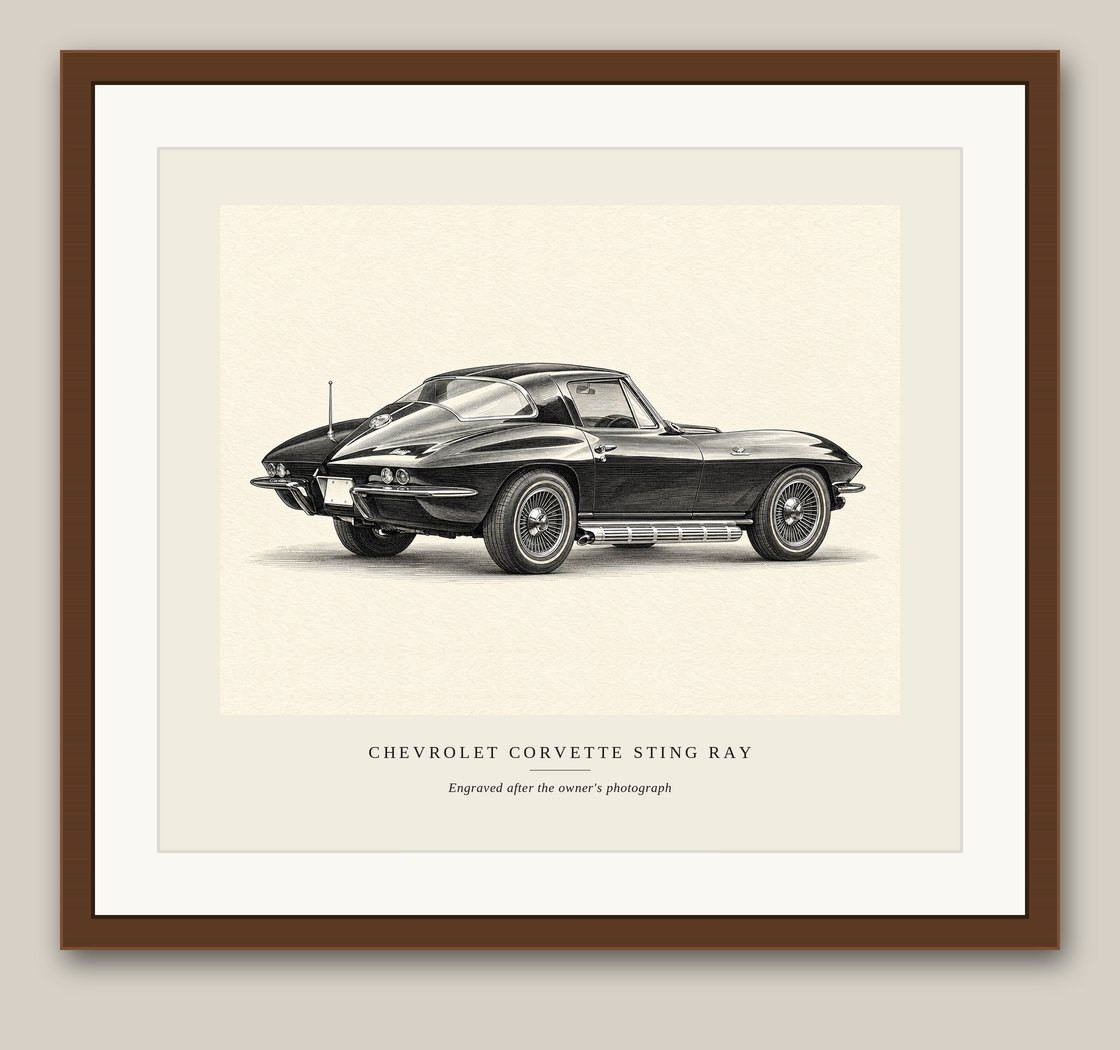
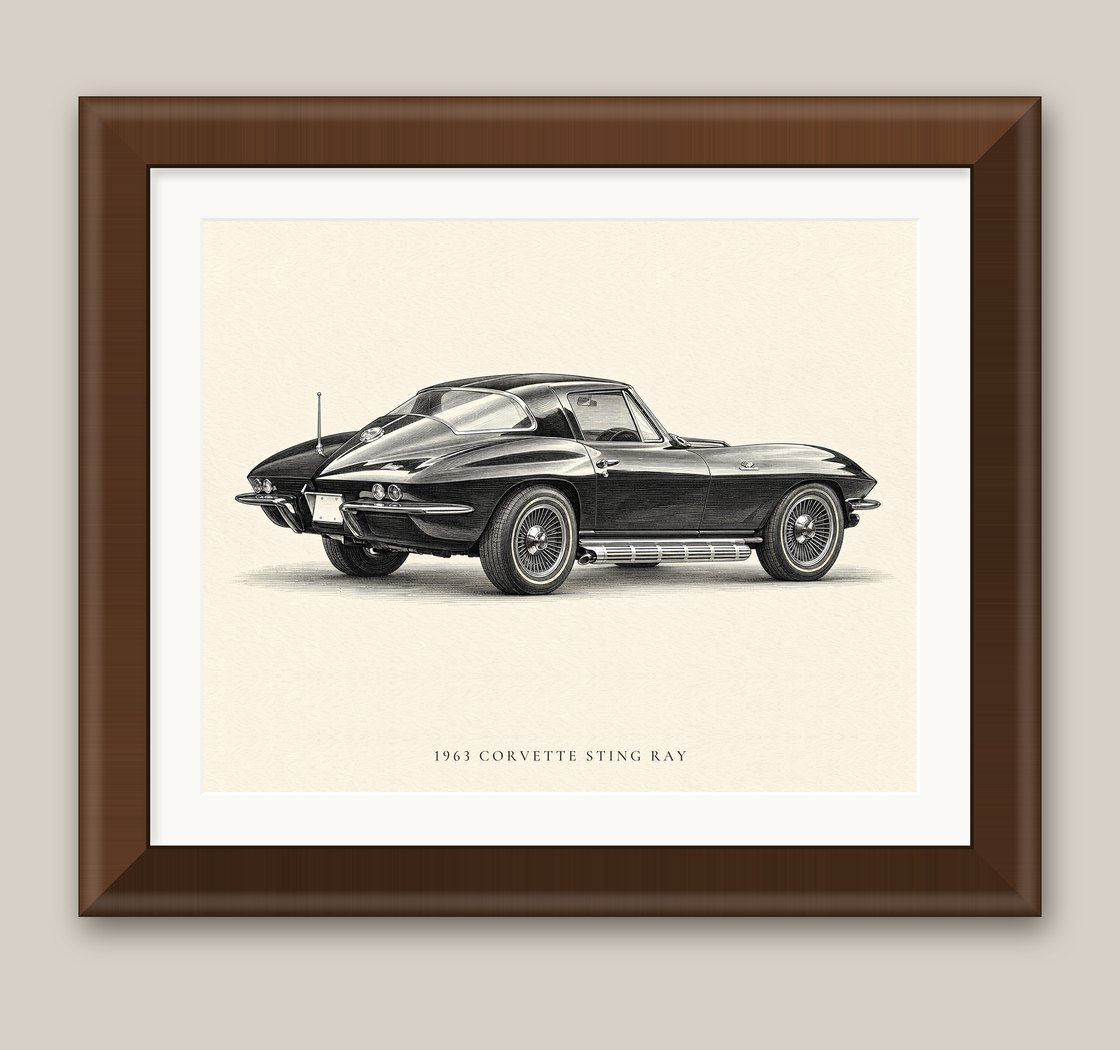
New sizes and prices, optional caption, remove Building (#7)
* New sizes: 16x12 $295, 20x16 $395, 30x24 $695; drop Building

Adds the 16 x 12 size, marks 20 x 16 "Most popular", retires 30 x 40
and the olive frame, removes Building from the order form and hero
slider, and brings the Materials copy in line with the FinerWorks build.

Claude-Session: https://claude.ai/code/session_01NR7fR3c572uaHgBcuTKKj1

* True-to-spec framed mockups; note proofs often come within 24 hours

Redraws the three framed examples at real proportions (20x16 print,
1.5-inch white mat, 2-inch moulding) with no caption or paper margin,
since neither is something we print.

Claude-Session: https://claude.ai/code/session_01NR7fR3c572uaHgBcuTKKj1

* Optional one-line caption printed under the art

Customers can add up to 40 characters, set in spaced capitals
(Cormorant Garamond, embedded as outlines) on a band of paper below the
art. The proof now shows the print's real shape and caption, the admin
can edit the caption, and the print file includes it.

Claude-Session: https://claude.ai/code/session_01NR7fR3c572uaHgBcuTKKj1

---------

diff --git a/public/index.html b/public/index.html
@@ -4,7 +4,7 @@
 <meta charset="utf-8">
 <meta name="viewport" content="width=device-width, initial-scale=1, viewport-fit=cover">
 <title>Burin & Co.</title>
-<meta name="description" content="Commissioned fine-art portraits of your car, yacht, aircraft or building. Hahnemühle cotton rag paper, solid-wood frame.">
+<meta name="description" content="Commissioned fine-art portraits of your car, yacht or aircraft. Hahnemühle cotton rag paper, framed in wood.">
 <link rel="preconnect" href="https://fonts.googleapis.com">
 <link rel="preconnect" href="https://fonts.gstatic.com" crossorigin>
 <link rel="stylesheet" href="https://fonts.googleapis.com/css2?family=Bodoni+Moda:ital,opsz,wght@0,6..96,400;0,6..96,500;1,6..96,400&family=Hanken+Grotesk:wght@400;500;600&family=IBM+Plex+Mono:wght@400;500&display=swap">
@@ -29,10 +29,10 @@
       <div class="hero-copy">
         <p class="eyebrow">Commissioned fine-art portraits</p>
         <h1>Your finest possession, drawn by hand.</h1>
-        <p class="lede">Send us a photograph of your car, yacht, aircraft or building. We draw it line by line, as a classic engraving or in its own colors, print it on Hahnemühle cotton rag, and frame it in solid wood.</p>
+        <p class="lede">Send us a photograph of your car, yacht or aircraft. We draw it line by line, as a classic engraving or in its own colors, print it on Hahnemühle cotton rag, and frame it in walnut or black oak.</p>
         <div class="hero-actions">
           <a class="btn" href="#commission">Begin a commission</a>
-          <span class="from">From $395, framed, shipped free in the US</span>
+          <span class="from">From $295, framed, shipped free in the US</span>
         </div>
       </div>
       <figure class="hero-art">
@@ -40,7 +40,6 @@
           <button type="button" data-ba="car" aria-pressed="true">Car</button>
           <button type="button" data-ba="yacht" aria-pressed="false">Yacht</button>
           <button type="button" data-ba="jet" aria-pressed="false">Aircraft</button>
-          <button type="button" data-ba="bldg" aria-pressed="false">Building</button>
         </div>
         <div class="ba" id="heroBa" style="--cut:50%">
           <img src="img/compare-photo.jpg" alt="The owner's photo: a silver Ford Mustang fastback with black stripes" width="1536" height="864">
@@ -70,7 +69,6 @@
               <label><input type="radio" name="category" value="automobile" checked> Automobile</label>
               <label><input type="radio" name="category" value="yacht"> Yacht</label>
               <label><input type="radio" name="category" value="aircraft"> Aircraft</label>
-              <label><input type="radio" name="category" value="building"> Building</label>
               <label><input type="radio" name="category" value="other"> Something else</label>
             </div>
             <label class="drop" for="photo">
@@ -104,15 +102,16 @@
           <fieldset>
             <legend><span class="n">3</span> Size and frame</legend>
             <div class="sizes" role="radiogroup">
-              <label><input type="radio" name="size" value="16x20" data-price="395" checked><span class="sz">16 × 20 in</span><span class="pr">$395</span></label>
-              <label><input type="radio" name="size" value="24x30" data-price="695"><span class="sz">24 × 30 in</span><span class="pr">$695</span></label>
-              <label><input type="radio" name="size" value="30x40" data-price="1250"><span class="sz">30 × 40 in</span><span class="pr">$1,250</span></label>
+              <label><input type="radio" name="size" value="12x16" data-price="295"><span class="sz">16 × 12 in</span><span class="pr">$295</span></label>
+              <label><input type="radio" name="size" value="16x20" data-price="395" checked><span class="tag">Most popular</span><span class="sz">20 × 16 in</span><span class="pr">$395</span></label>
+              <label><input type="radio" name="size" value="24x30" data-price="695"><span class="sz">30 × 24 in</span><span class="pr">$695</span></label>
             </div>
             <div class="chips frames" role="radiogroup">
               <label><input type="radio" name="frame" value="walnut" checked> Dark walnut</label>
               <label><input type="radio" name="frame" value="ebony"> Black oak</label>
             </div>
-            <p class="frame-note" id="frameNote" hidden>30 × 40 is framed in a wider 2½-inch olive-wood moulding, sized for large work.</p>
+            <label class="notes caption-field" for="caption">A line under the drawing (optional, free) <input id="caption" name="caption" maxlength="40" placeholder="For example: 1967 Shelby GT500 · Est. 2024"></label>
+            <p class="hint">Printed in spaced capitals on the paper below the art, like a gallery title. Up to 40 characters. Leave it blank for art only.</p>
           </fieldset>
 
           <fieldset>
@@ -145,11 +144,12 @@
           <dl>
             <div><dt>Subject</dt><dd id="sCat">Automobile</dd></div>
             <div><dt>Style</dt><dd id="sStyle">Engraved</dd></div>
-            <div><dt>Size</dt><dd id="sSize">16 × 20 in, Dark walnut</dd></div>
+            <div><dt>Size</dt><dd id="sSize">20 × 16 in, Dark walnut</dd></div>
+            <div id="sCapRow" hidden><dt>Caption</dt><dd id="sCap"></dd></div>
           </dl>
           <p class="total"><span>Total</span><strong id="total">$395</strong></p>
           <button class="btn wide" type="submit" id="pay">Continue to request my proof</button>
-          <p class="fine">You add a card on the next page, but you aren't charged until you approve your proof. Digital proof within 48 hours, with two rounds of changes included.</p>
+          <p class="fine">You add a card on the next page, but you aren't charged until you approve your proof. Digital proof within 48 hours (often within 24), with two rounds of changes included.</p>
           <p id="formErr" class="form-err" role="alert" hidden></p>
         </aside>
       </form>
@@ -164,8 +164,8 @@
         <p class="sub">Engraved builds every tone from fine parallel lines, the way currency and share certificates have been engraved for two centuries. Studio is drawn the way master car designers present a build: glossy marker color in your exact paint, crisp highlights and mirror chrome on clean white paper. Heritage paints it the way the great mid-century advertising artists did, with paint that looks a foot deep. Either way, the subject itself is drawn exactly as it is.</p>
       </div>
       <div class="pair trio">
-        <figure><img src="img/framed-studio.jpg" alt="Framed Studio rendering of a silver Ford Mustang fastback in a black oak frame" width="1120" height="1050" loading="lazy"><figcaption>Studio, in black oak</figcaption></figure>
-        <figure><img src="img/framed-engraved.jpg" alt="Framed Engraved portrait of a Corvette Sting Ray in a dark walnut frame" width="1120" height="1050" loading="lazy"><figcaption>Engraved, in dark walnut</figcaption></figure>
+        <figure><img src="img/framed-studio.jpg" alt="Framed Studio rendering of a silver Ford Mustang fastback in a black oak frame with a white mat" width="1120" height="1050" loading="lazy"><figcaption>Studio, in black oak</figcaption></figure>
+        <figure><img src="img/framed-engraved.jpg" alt="Framed Engraved portrait of a Corvette Sting Ray in a dark walnut frame, captioned 1963 Corvette Sting Ray" width="1120" height="1050" loading="lazy"><figcaption>Engraved, in dark walnut, with a caption</figcaption></figure>
         <figure><img src="img/framed-heritage.jpg" alt="Framed Heritage painting of a red Ferrari F40 in a dark walnut frame" width="1120" height="1050" loading="lazy"><figcaption>Heritage, in dark walnut</figcaption></figure>
       </div>
     </div>
@@ -176,7 +176,7 @@
       <div class="sec-head"><p class="eyebrow">How a commission runs</p></div>
       <ol class="flow">
         <li><span class="n">1</span><h3>You send a photograph</h3><p>Order above and save a card. Nothing is charged yet. Any clear photo works; we will ask if we need another angle.</p></li>
-        <li><span class="n">2</span><h3>We send a proof in 48 hours</h3><p>We check every badge, wheel, window and hull line against your photo. Ask for changes twice at no cost.</p></li>
+        <li><span class="n">2</span><h3>We send a proof in 48 hours</h3><p>Often within 24. We check every badge, wheel, window and hull line against your photo. Ask for changes twice at no cost.</p></li>
         <li><span class="n">3</span><h3>Approve, then it arrives framed</h3><p>We charge your card only when you approve the proof. Then it is printed and framed, and shipped insured in about two weeks.</p></li>
       </ol>
     </div>
@@ -190,9 +190,9 @@
       </div>
       <dl class="spec">
         <div><dt>Paper</dt><dd>Hahnemühle Photo Rag, 308 gsm, 100% cotton, printed with archival pigment inks</dd></div>
-        <div><dt>Frame</dt><dd>Dark walnut or black oak, a 2-inch solid-wood moulding. 30 × 40 gets a 2½-inch olive moulding.</dd></div>
-        <div><dt>Glazing</dt><dd>Conservation-grade acrylic that blocks UV and cuts glare</dd></div>
-        <div><dt>Mat</dt><dd>Thick 8-ply bright white mat with a deep bevel</dd></div>
+        <div><dt>Frame</dt><dd>Dark walnut or black oak, a 2-inch wood moulding</dd></div>
+        <div><dt>Glazing</dt><dd>Anti-glare acrylic, lighter and safer than glass</dd></div>
+        <div><dt>Mat</dt><dd>Bright white mat with a beveled window</dd></div>
         <div><dt>Certificate</dt><dd>Numbered and signed, in a linen envelope</dd></div>
       </dl>
     </div>
@@ -206,7 +206,7 @@
         <details><summary>Can I order it as a gift for a client?</summary><p>Yes. Many orders come from dealers and brokers at closing. Enter their address under Ship to, and we include no pricing in the box.</p></details>
         <details><summary>What if I don't have a good photo?</summary><p>Send what you have. A listing photo, a dealer photo, or a phone picture taken from the side all work.</p></details>
         <details><summary>When am I charged?</summary><p>Only when you approve your proof. You save a card when you order, and we charge it the moment you click approve. Your proof is watermarked; the print you receive is clean and full resolution.</p></details>
-        <details><summary>How long does it take?</summary><p>Proof in 48 hours. After you approve, about two weeks to your door in the US.</p></details>
+        <details><summary>How long does it take?</summary><p>Proof within 48 hours, and often within 24. After you approve, about two weeks to your door in the US.</p></details>
         <details><summary>Do you ship outside the US?</summary><p>Yes, at cost. We quote it before you pay.</p></details>
       </div>
     </div>

diff --git a/public/admin.html b/public/admin.html
@@ -146,6 +146,7 @@
         ${a ? `<span>${esc(a.line1)}${a.line2 ? ", " + esc(a.line2) : ""}, ${esc(a.city)}, ${esc(a.state)} ${esc(a.postal_code)}</span>` : ""}
       </div>
       ${o.plaque && o.plaque[0] ? `<p class="request" style="margin-top:1rem"><strong>Plaque (older order):</strong> ${esc(o.plaque[0])}${o.plaque[1] ? ` / ${esc(o.plaque[1])}` : ""}.</p>` : ""}
+      <p class="request" style="margin-top:1rem"><strong>Caption:</strong> ${o.caption ? esc(o.caption.toUpperCase()) : "none"}</p>
       ${o.notes ? `<p class="request" style="margin-top:1rem"><strong>Customer note:</strong> ${esc(o.notes)}</p>` : ""}
       ${o.lastError && o.status === "render_failed" ? `<p class="form-error">${esc(o.lastError)}</p>` : ""}
 
@@ -166,6 +167,13 @@
         <p class="hint">Describe what to fix. ${lastReq && o.status === "changes_requested" ? "The customer's request is filled in for you." : ""}</p>
         <textarea id="adj" placeholder="For example: the wheels have five spokes, not ten; remove the extra mirror.">${o.status === "changes_requested" && lastReq ? esc(lastReq.note) : ""}</textarea>
         <div class="actions"><button class="btn secondary" data-act="regenerate" ${canRegen ? "" : "disabled"}>Regenerate</button></div>
+      </div>
+
+      <div class="box">
+        <h3>Caption under the art</h3>
+        <p class="hint">Up to 40 characters, printed in spaced capitals below the art. Leave blank for none. The proof and print file use whatever is saved here.</p>
+        <input type="text" id="caption" maxlength="40" value="${esc(o.caption || "")}">
+        <div class="actions"><button class="btn secondary" data-act="set_caption" ${o.status === "sent_to_print" ? "disabled" : ""}>Save caption</button></div>
       </div>
 
       <div class="box">
@@ -202,6 +210,7 @@
     const err = $("#act-err");
     const body = { action, id: selected };
     if (action === "regenerate") body.note = $("#adj").value;
+    if (action === "set_caption") body.note = $("#caption").value;
     if (action === "mark_sent_to_print") {
       body.force = $("#force")?.checked || false;
       body.note = $("#print-ref")?.value || "";

diff --git a/public/app.js b/public/app.js
@@ -2,7 +2,7 @@
   const $ = (id) => document.getElementById(id);
   const form = $("order");
   const money = (n) => "$" + n.toLocaleString("en-US");
-  const sizeLabel = { "16x20": "16 × 20 in", "24x30": "24 × 30 in", "30x40": "30 × 40 in" };
+  const sizeLabel = { "12x16": "16 × 12 in", "16x20": "20 × 16 in", "24x30": "30 × 24 in" };
   const label = (input) => input.closest("label").textContent.trim();
 
   // Photo / rendering comparison: drag to reveal, with one sweep when it scrolls into view.
@@ -32,7 +32,6 @@
     car: { src: "compare", w: 1536, h: 864, what: "a silver Ford Mustang fastback with black stripes", cap: "A real owner's photo of a Ford Mustang fastback, and the Studio rendering we drew from it." },
     yacht: { src: "compare-yacht", w: 1536, h: 864, what: "a motor yacht underway", cap: "A photo of a motor yacht at sea, and the Studio rendering we drew from it." },
     jet: { src: "compare-jet", w: 1536, h: 864, what: "a private jet", cap: "A photo of a private jet, and the Studio rendering we drew from it." },
-    bldg: { src: "compare-bldg", w: 1080, h: 1350, what: "a commercial building", cap: "A photo of a commercial building, and the Studio rendering we drew from it." },
   };
   const heroBa = $("heroBa");
   document.querySelectorAll("[data-ba]").forEach((btn) => btn.addEventListener("click", () => {
@@ -53,10 +52,10 @@
     const size = v("size");
     $("sCat").textContent = label(v("category"));
     $("sStyle").textContent = v("style").closest("label").querySelector("strong").textContent;
-    const big = size.value === "30x40";
-    form.querySelector(".frames").hidden = big;
-    $("frameNote").hidden = !big;
-    $("sSize").textContent = sizeLabel[size.value] + ", " + (big ? "olive" : label(v("frame")));
+    $("sSize").textContent = sizeLabel[size.value] + ", " + label(v("frame"));
+    const cap = $("caption").value.trim();
+    $("sCapRow").hidden = !cap;
+    $("sCap").textContent = cap.toUpperCase();
     $("total").textContent = money(Number(size.dataset.price));
   }
   form.addEventListener("input", update);

diff --git a/public/styles.css b/public/styles.css
@@ -94,7 +94,7 @@ legend { font: 400 24px/1.2 var(--display); margin-bottom: 18px; padding: 0; dis
 .sizes label:has(input:checked) { border-color: var(--ink); background: var(--ink); color: var(--paper); }
 .sizes label:has(input:checked) .pr { color: var(--brass-hi); }
 .frames { margin-bottom: 14px; }
-.frame-note { margin: 0 0 14px; font-size: 15px; color: var(--muted-paper); }
+.sizes .tag { position: absolute; top: -9px; right: 10px; padding: 2px 8px; font: 500 11px/1.4 var(--mono); letter-spacing: .06em; text-transform: uppercase; background: var(--brass-hi); color: var(--ink); }
 .check { display: flex; gap: 12px; align-items: flex-start; font-size: 15px; color: var(--muted-paper); cursor: pointer; }
 .check strong { color: var(--ink); }
 .check input { margin-top: 4px; accent-color: var(--ink); width: 18px; height: 18px; flex: none; }
@@ -115,6 +115,8 @@ legend { font: 400 24px/1.2 var(--display); margin-bottom: 18px; padding: 0; dis
 .fine { font-size: 13px; color: var(--muted-night); margin: 0; }
 .form-err { font-size: 14px; color: #f0a8a0; margin: 0; }
 .notes { display: grid; gap: 6px; margin-top: 14px; font: 500 12px/1 var(--mono); letter-spacing: .12em; text-transform: uppercase; color: var(--muted-paper); }
+.notes input { font: 400 16px/1.3 var(--body); color: var(--ink); background: #fbf8f1; border: 1px solid var(--line-paper); padding: 12px 14px; letter-spacing: 0; text-transform: none; width: 100%; }
+.caption-field { margin-top: 18px; }
 .notes textarea { font: 400 16px/1.4 var(--body); color: var(--ink); background: #fbf8f1; border: 1px solid var(--line-paper); padding: 12px 14px; letter-spacing: 0; text-transform: none; resize: vertical; }
 @media (max-width: 960px) { .order { grid-template-columns: 1fr; } .summary { position: static; } }
 @media (max-width: 560px) { .styles, .plaque-fields { grid-template-columns: 1fr; } .sizes { grid-template-columns: 1fr; } }

diff --git a/public/proof.html b/public/proof.html
@@ -58,6 +58,7 @@
       }
       const price = "$" + (d.price / 100).toLocaleString("en-US");
       const plaque = d.plaque && d.plaque[0] ? ` and check the spelling of your plaque: <strong>${esc(d.plaque[0])}${d.plaque[1] ? " / " + esc(d.plaque[1]) : ""}</strong>` : "";
+      const caption = d.caption ? `, and check the spelling of the line under the art: <strong>${esc(d.caption.toUpperCase())}</strong>` : "";
       if (d.paymentDue) {
         panel.innerHTML = intro + `
           <p>You approved this proof, but your saved card didn't go through. Complete payment of ${price} and we'll send it to print.</p>
@@ -65,7 +66,7 @@
           <p class="form-error" id="err" role="alert"></p>`;
       } else {
       panel.innerHTML = intro + `
-        <p>Look closely at every badge, line and window${plaque}. The watermark is only on this preview; your print is clean, full resolution and on cotton rag.</p>
+        <p>Look closely at every badge, line and window${plaque}${caption}. The watermark is only on this preview; your print is clean, full resolution and on cotton rag.</p>
         <p>${d.prepaid ? "Once you approve, we print, frame and ship it." : `When you approve, we charge the card you saved, ${price}, and then print, frame and ship it. Asking for changes costs nothing.`}</p>
         <div class="actions">
           <button class="btn" id="approve">${d.prepaid ? "Approve and print" : `Approve and pay ${price}`}</button>

diff --git a/public/thanks.html b/public/thanks.html
@@ -11,7 +11,7 @@
 <header class="site-head"><div class="wrap"><a class="brand" href="/">Burin &amp; Co.</a></div></header>
 <main><section><div class="wrap narrow">
   <h1>Thank you. Your commission is in.</h1>
-  <p class="lede">We're drawing it now. Within 48 hours you'll get an email with your proof. Approve it, or tell us what to change, and we'll take it from there.</p>
+  <p class="lede">We're drawing it now. Within 48 hours (often within 24) you'll get an email with your proof. Approve it, or tell us what to change, and we'll take it from there.</p>
   <p>A confirmation is on its way to your inbox. Your card is saved but not charged; we charge it only when you approve your proof.</p>
   <a class="btn secondary" href="/">Back to home</a>
 </div></section></main>
